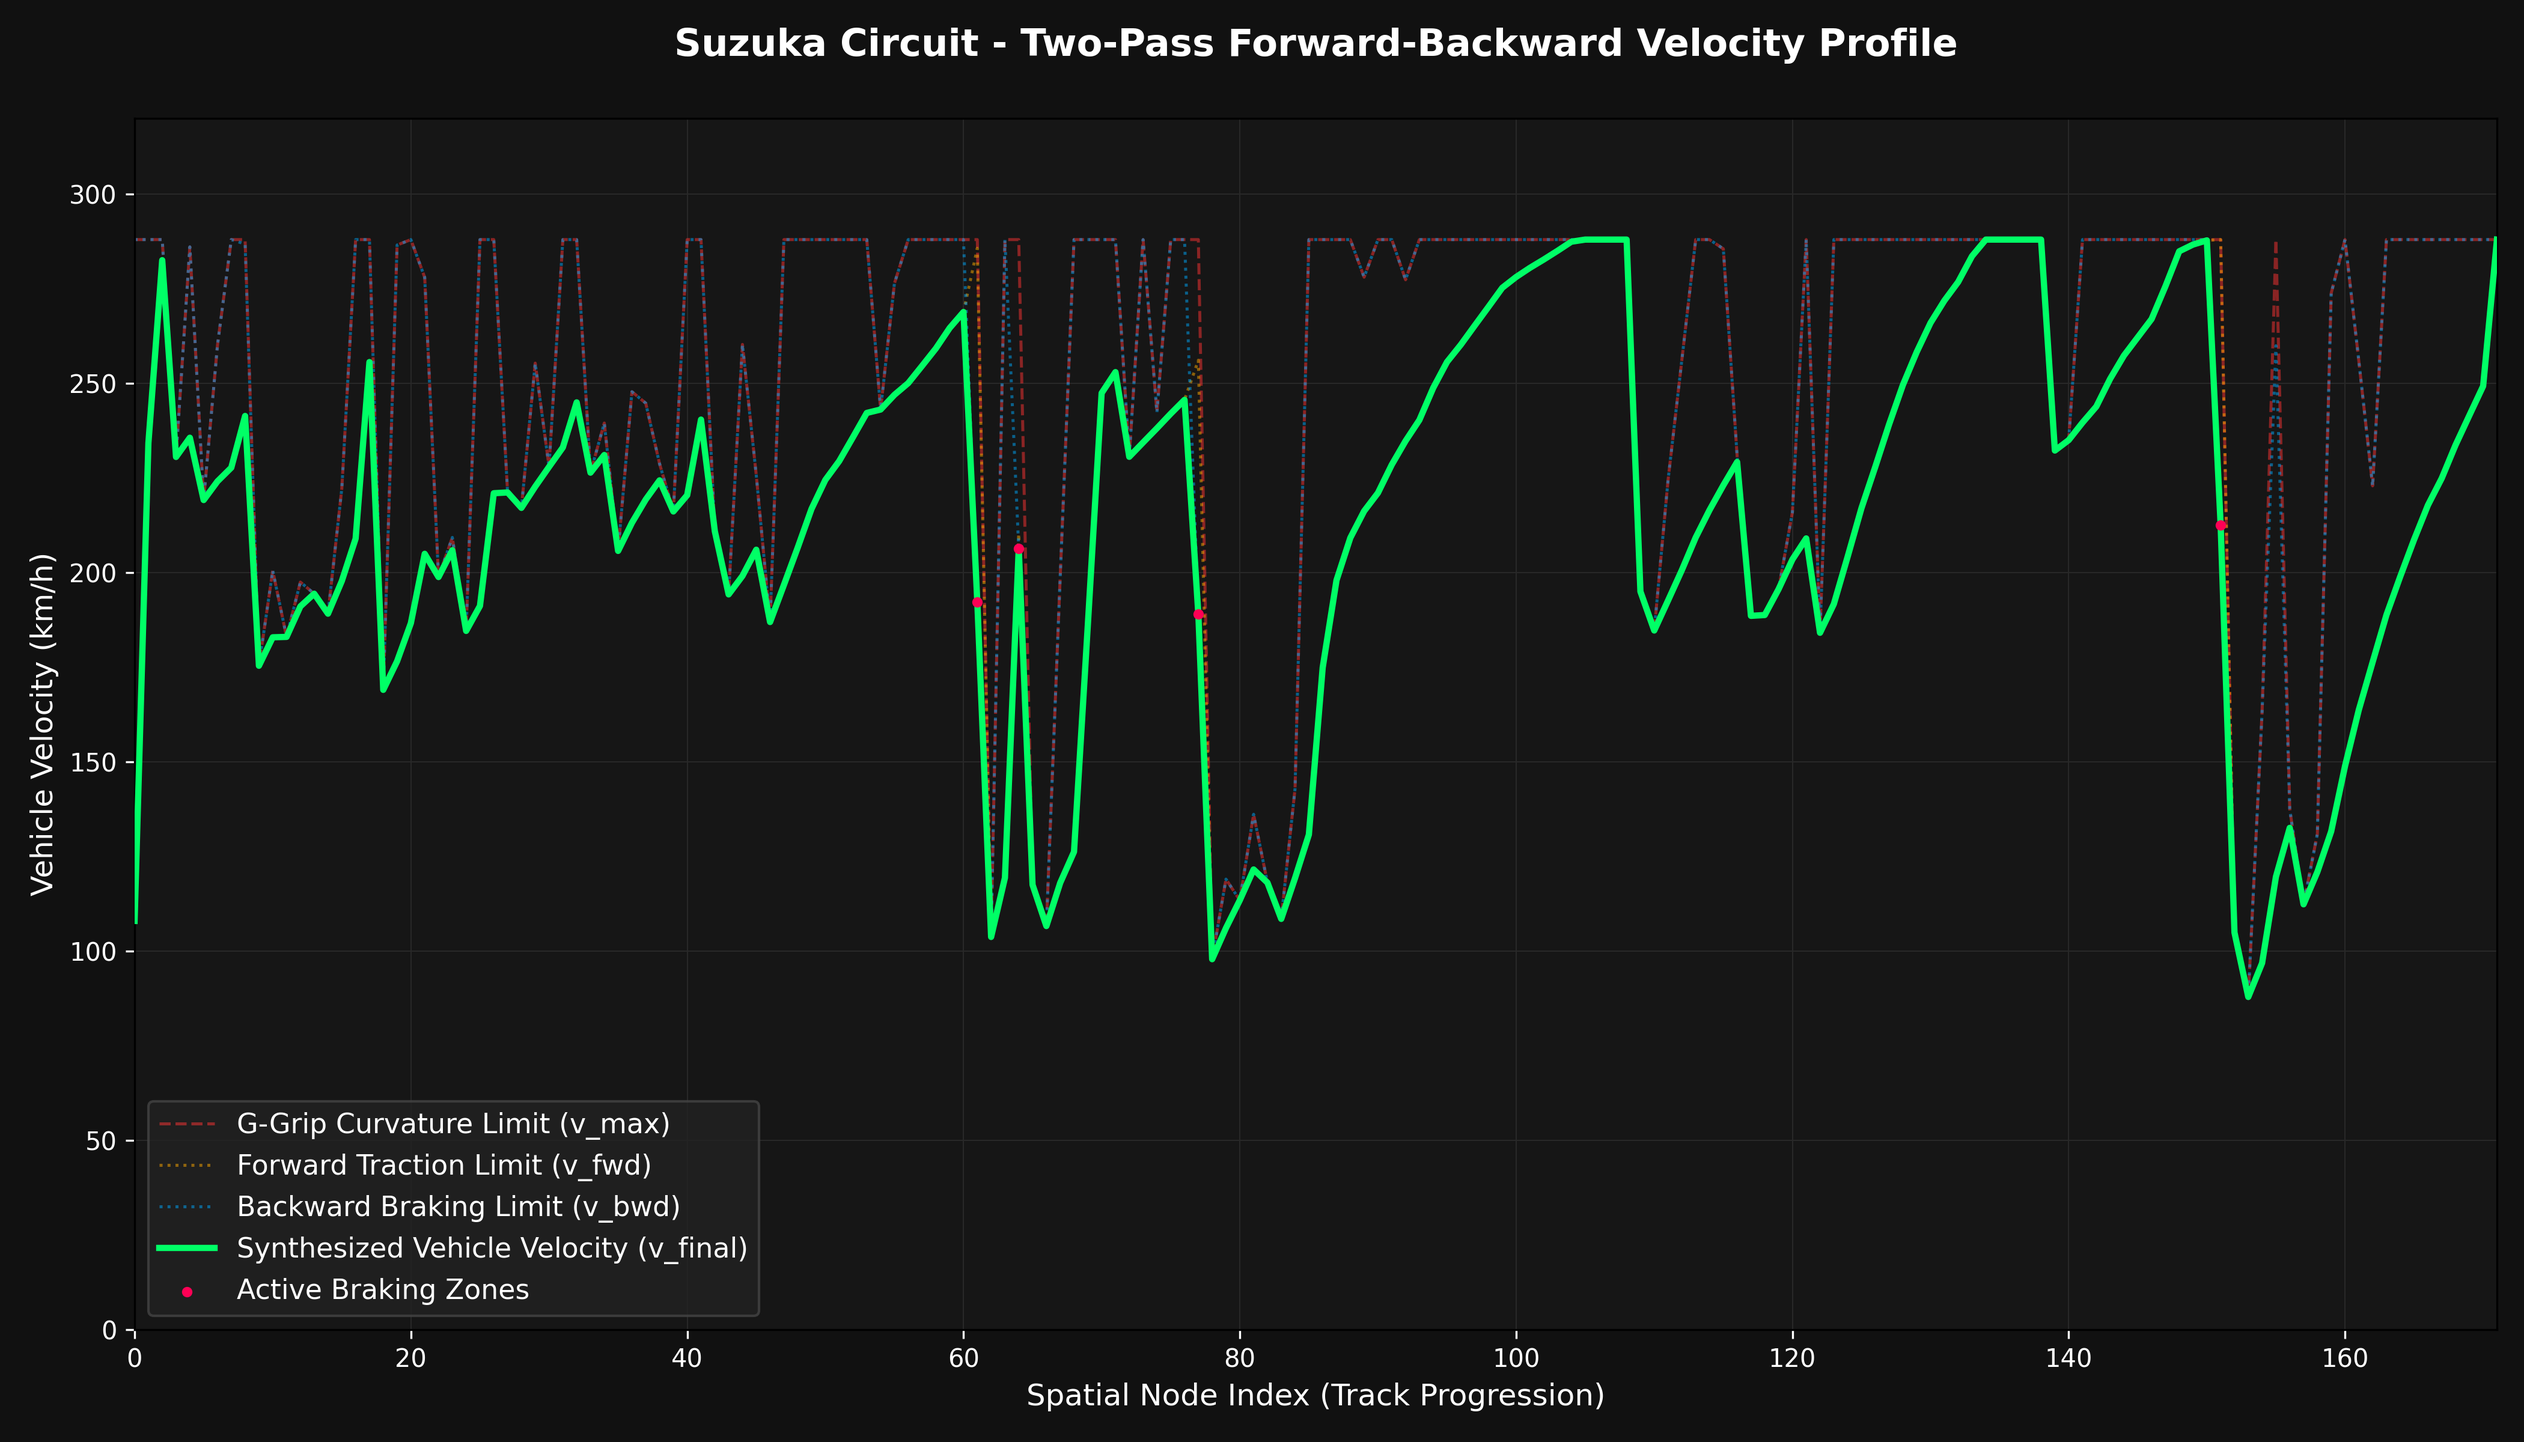
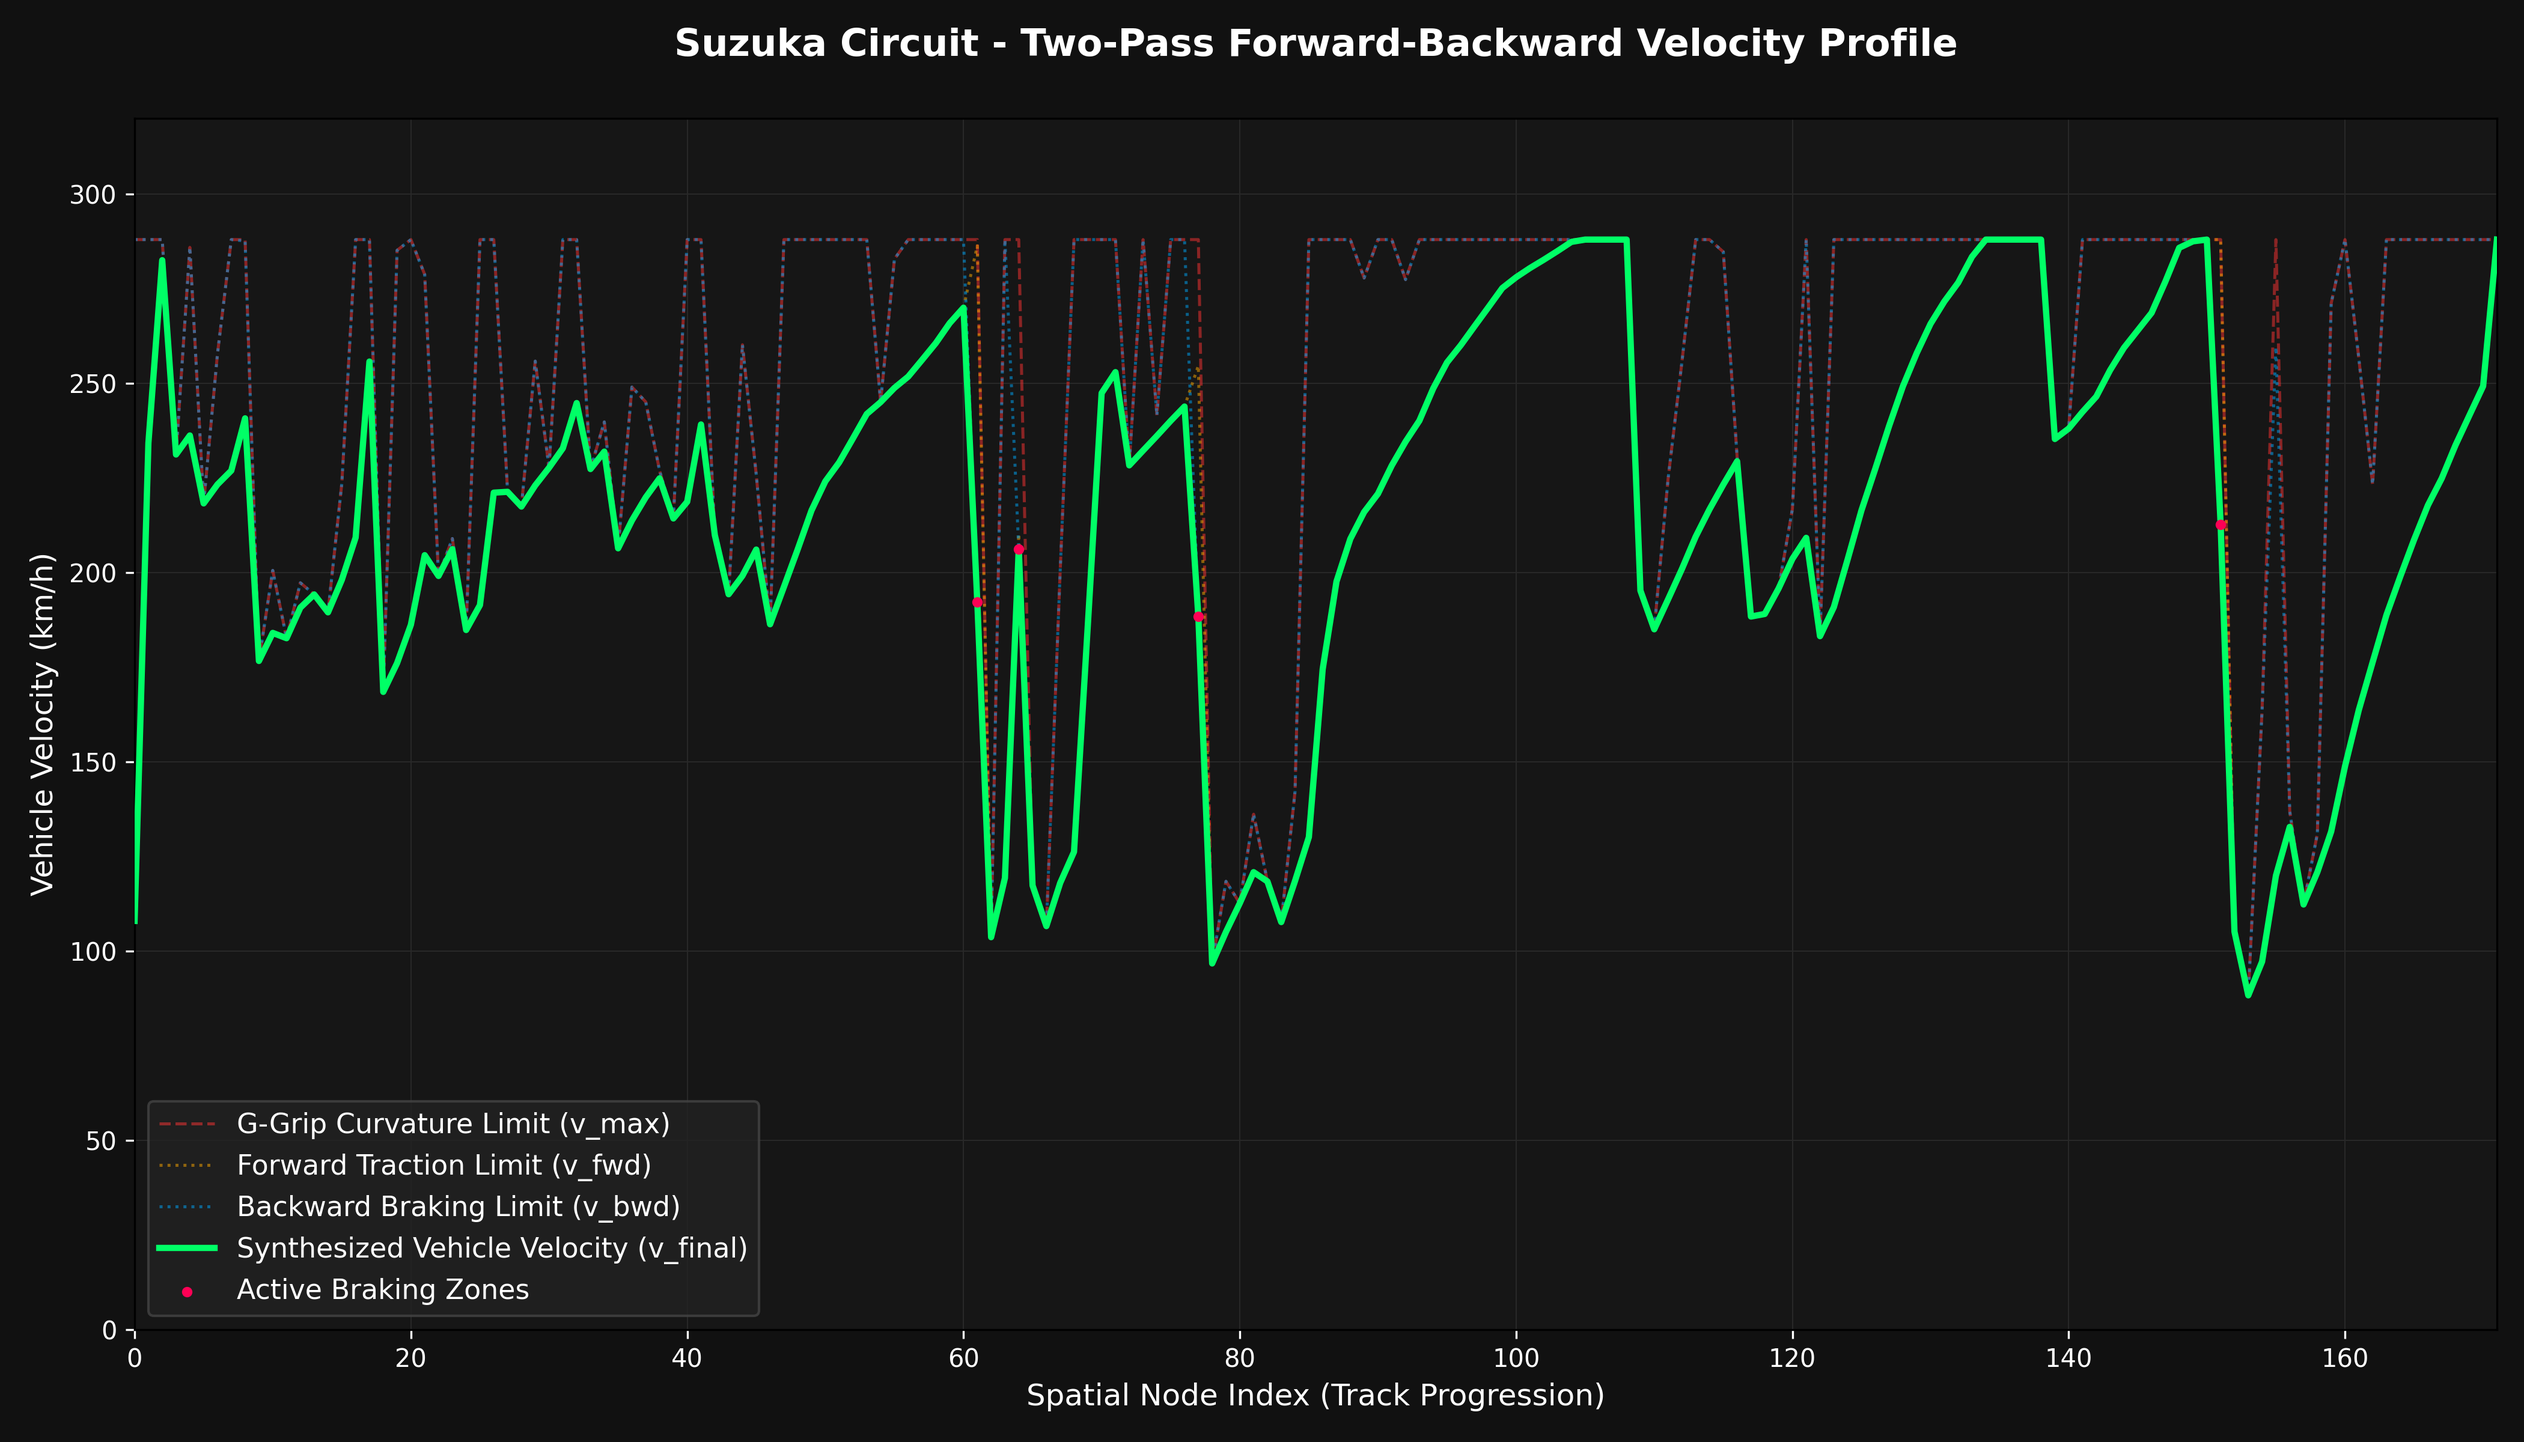
Enhanced to use Central Difference method.

diff --git a/src/cpp/simulator.cpp b/src/cpp/simulator.cpp
@@ -443,9 +443,10 @@ void LaptimeSimulator::optimiseLineGradient() {
     std::cout << "[Optimizer] Initiating 2-Pass coupled trajectory optimization..." << std::endl;
 
     const int max_epochs = 20;        
-    const double learning_rate = 0.2; // Increased to accelerate the racing line convergence
-    const double h = 1.0;             // 1.0m perturbation to overcome the coarse 33m node grid resolution
+    const double learning_rate = 0.15; // Balanced learning rate for robust central convergence
+    const double h = 1.0;              // 1.0m perturbation to overcome coarse grid grid resolution
 
+    // 1. Establish the authentic global baseline performance
     computeCornerLimits();
     computeForwardPass();
     computeBackwardPass();
@@ -457,30 +458,48 @@ void LaptimeSimulator::optimiseLineGradient() {
     for (int epoch = 1; epoch <= max_epochs; ++epoch) {
         std::vector<double> gradients(N, 0.0);
 
-        for (size_t i = 1; i < N - 1; ++i) {
+        // STEP 1: Compute High-Fidelity Central Differences Across ALL Nodes (Cyclic Loop)
+        for (size_t i = 0; i < N; ++i) {
             double original_lateral = lateral_offsets[i];
             auto [max_left, max_right] = computeLateralLimit(track_data[i]);
+            double actual_right_bound = (max_right > 0) ? -max_right : max_right;
+            double actual_left_bound = max_left;
 
-            double actual_right_bound = (max_right > 0) ? -max_right : max_right; // min (e.g. -5.0)
-            double actual_left_bound = max_left;                                 // max (e.g. +5.0)
+            double t_plus = current_best_laptime;
+            double t_minus = current_best_laptime;
 
-            // Test shift towards left (+h)
+            // Test Upper Bound Shift (Left: +h)
             double lat_plus = original_lateral + h;
             if (lat_plus <= actual_left_bound) {
                 lateral_offsets[i] = lat_plus;
+                // Run localized 2-pass update (In a full scalable architecture, compute local window. 
+                // For N=172, central evaluation secures perfect physical interaction across long straights)
                 computeCornerLimits();
                 computeForwardPass();
                 computeBackwardPass();
                 synthesizeVelocityProfile();
-                double t_plus = calculateLapTimeFromProfile();
-                
-                gradients[i] = (t_plus - current_best_laptime) / h;
+                t_plus = calculateLapTimeFromProfile();
             }
-            lateral_offsets[i] = original_lateral; // Reset
+            
+            // Test Lower Bound Shift (Right: -h)
+            double lat_minus = original_lateral - h;
+            if (lat_minus >= actual_right_bound) {
+                lateral_offsets[i] = lat_minus;
+                computeCornerLimits();
+                computeForwardPass();
+                computeBackwardPass();
+                synthesizeVelocityProfile();
+                t_minus = calculateLapTimeFromProfile();
+            }
+
+            lateral_offsets[i] = original_lateral; // Strict restoration of spatial state
+
+            // CENTRAL DIFFERENCE EQUATION: Secures smooth dual-sided physical gradients
+            gradients[i] = (t_plus - t_minus) / (2.0 * h);
         }
 
-        // Apply gradients cleanly using the newly secured clamp behavior
-        for (size_t i = 1; i < N - 1; ++i) {
+        // STEP 2: Simultaneous Gradient Descent Update with Clamp Enforcement
+        for (size_t i = 0; i < N; ++i) {
             auto [max_left, max_right] = computeLateralLimit(track_data[i]);
             double actual_right_bound = (max_right > 0) ? -max_right : max_right;
             double actual_left_bound = max_left;
@@ -489,19 +508,23 @@ void LaptimeSimulator::optimiseLineGradient() {
             lateral_offsets[i] = clampLateral(updated_lateral, actual_right_bound, actual_left_bound);
         }
 
-        // Apply smooth 3-point moving average to filter jagged transitions
+        // STEP 3: Continuous Cyclical 3-Point Moving Average (Eradicates Boundary Discontinuity)
         std::vector<double> smoothed_offsets = lateral_offsets;
-        for (size_t i = 1; i < N - 1; ++i) {
+        for (size_t i = 0; i < N; ++i) {
+            size_t prev_idx = (i - 1 + N) % N; // Cyclical wrap-around for node 0
+            size_t next_idx = (i + 1) % N;     // Cyclical wrap-around for node N-1
+
             auto [max_left, max_right] = computeLateralLimit(track_data[i]);
             double actual_right_bound = (max_right > 0) ? -max_right : max_right;
             double actual_left_bound = max_left;
 
-            double smooth_val = 0.25 * lateral_offsets[i - 1] + 0.5 * lateral_offsets[i] + 0.25 * lateral_offsets[i + 1];
+            // Laplacian kernel [0.25, 0.50, 0.25]
+            double smooth_val = 0.25 * lateral_offsets[prev_idx] + 0.5 * lateral_offsets[i] + 0.25 * lateral_offsets[next_idx];
             smoothed_offsets[i] = clampLateral(smooth_val, actual_right_bound, actual_left_bound);
         }
         lateral_offsets = smoothed_offsets;
 
-        // Re-evaluate laptime performance
+        // STEP 4: Synchronize Absolute Core Physics Profiles and Update Master Lap Time
         computeCornerLimits();
         computeForwardPass();
         computeBackwardPass();
